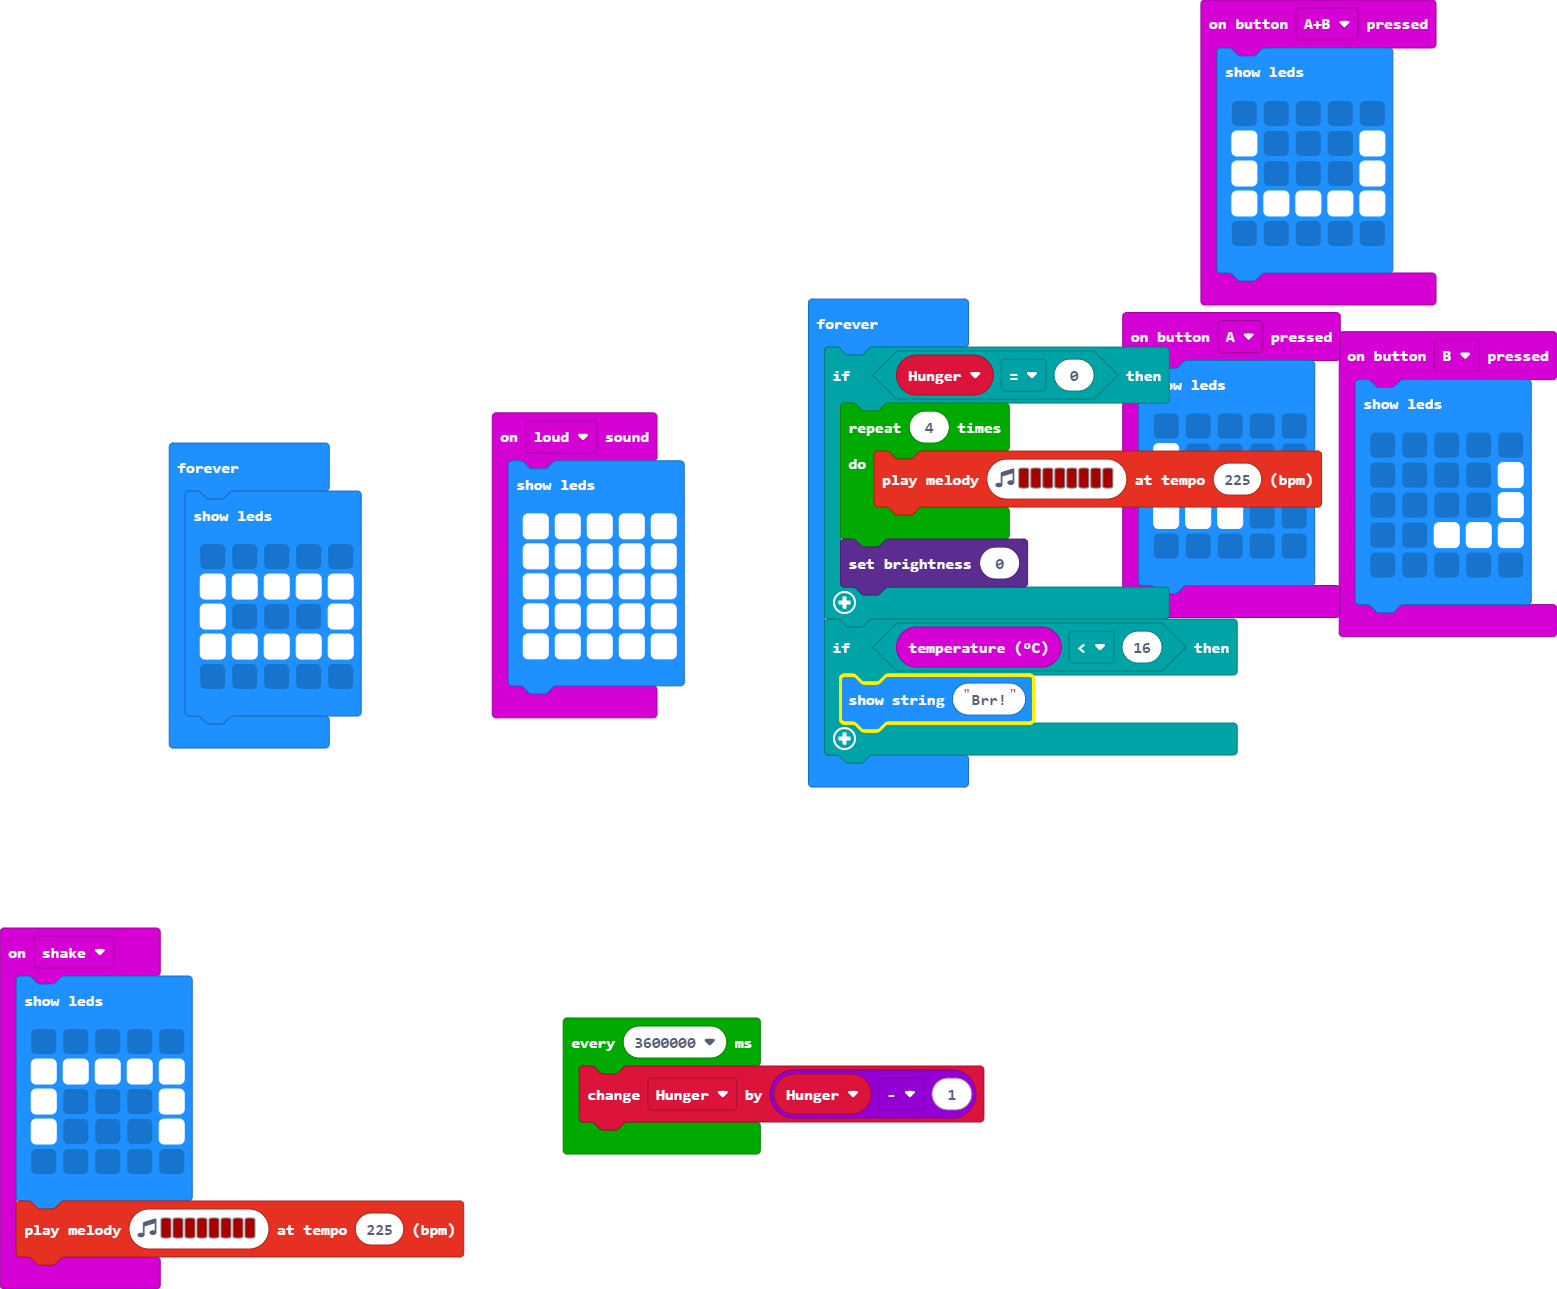
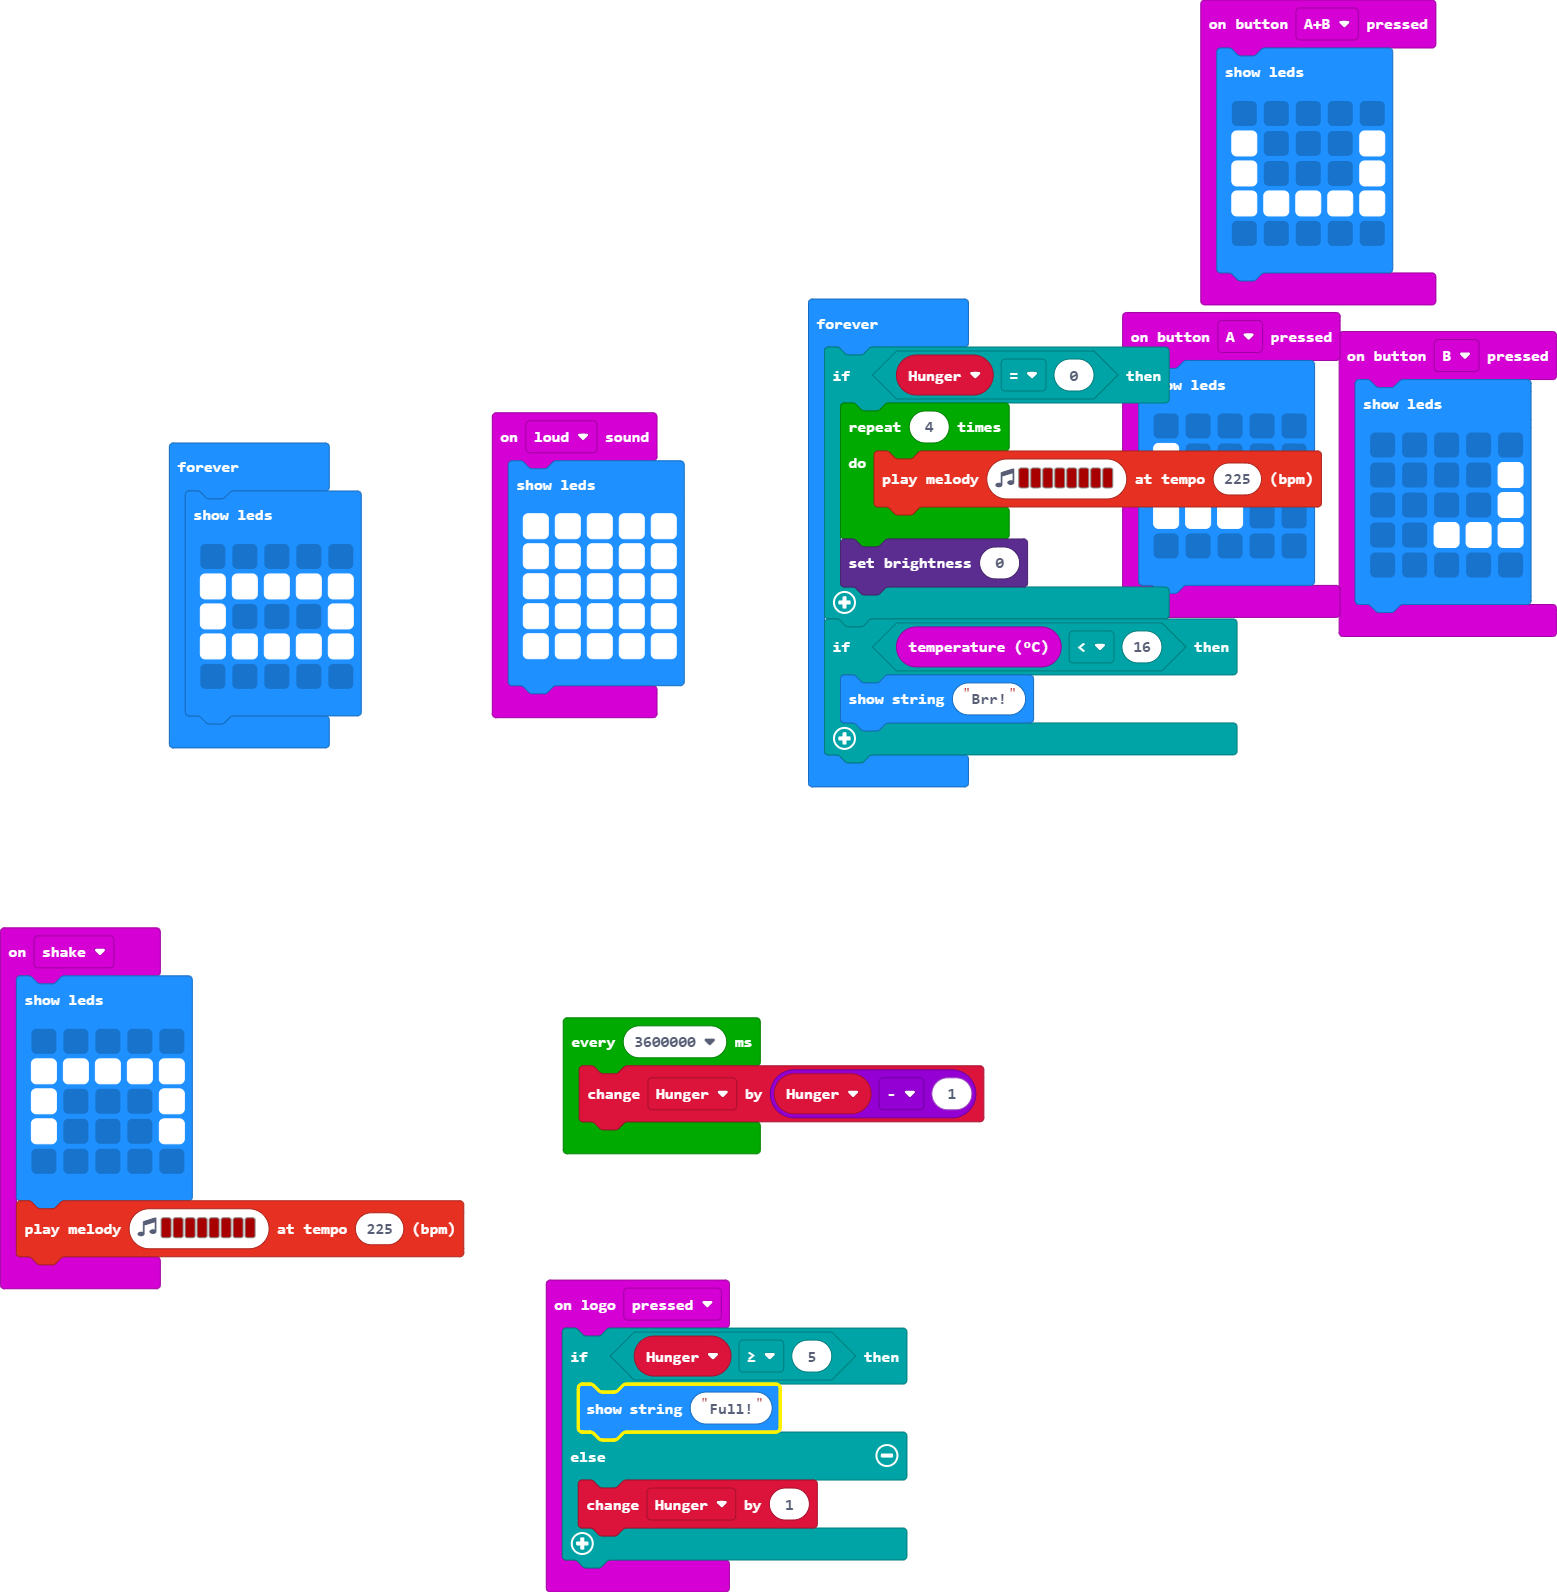
Done

diff --git a/main.ts b/main.ts
@@ -45,6 +45,13 @@ input.onGesture(Gesture.Shake, function () {
         `)
     music.playMelody("C5 C5 C5 C5 C5 C5 C5 C5 ", 225)
 })
+input.onLogoEvent(TouchButtonEvent.Pressed, function () {
+    if (Hunger >= 5) {
+        basic.showString("Full!")
+    } else {
+        Hunger += 1
+    }
+})
 basic.forever(function () {
     if (Hunger == 0) {
         for (let index = 0; index < 4; index++) {
